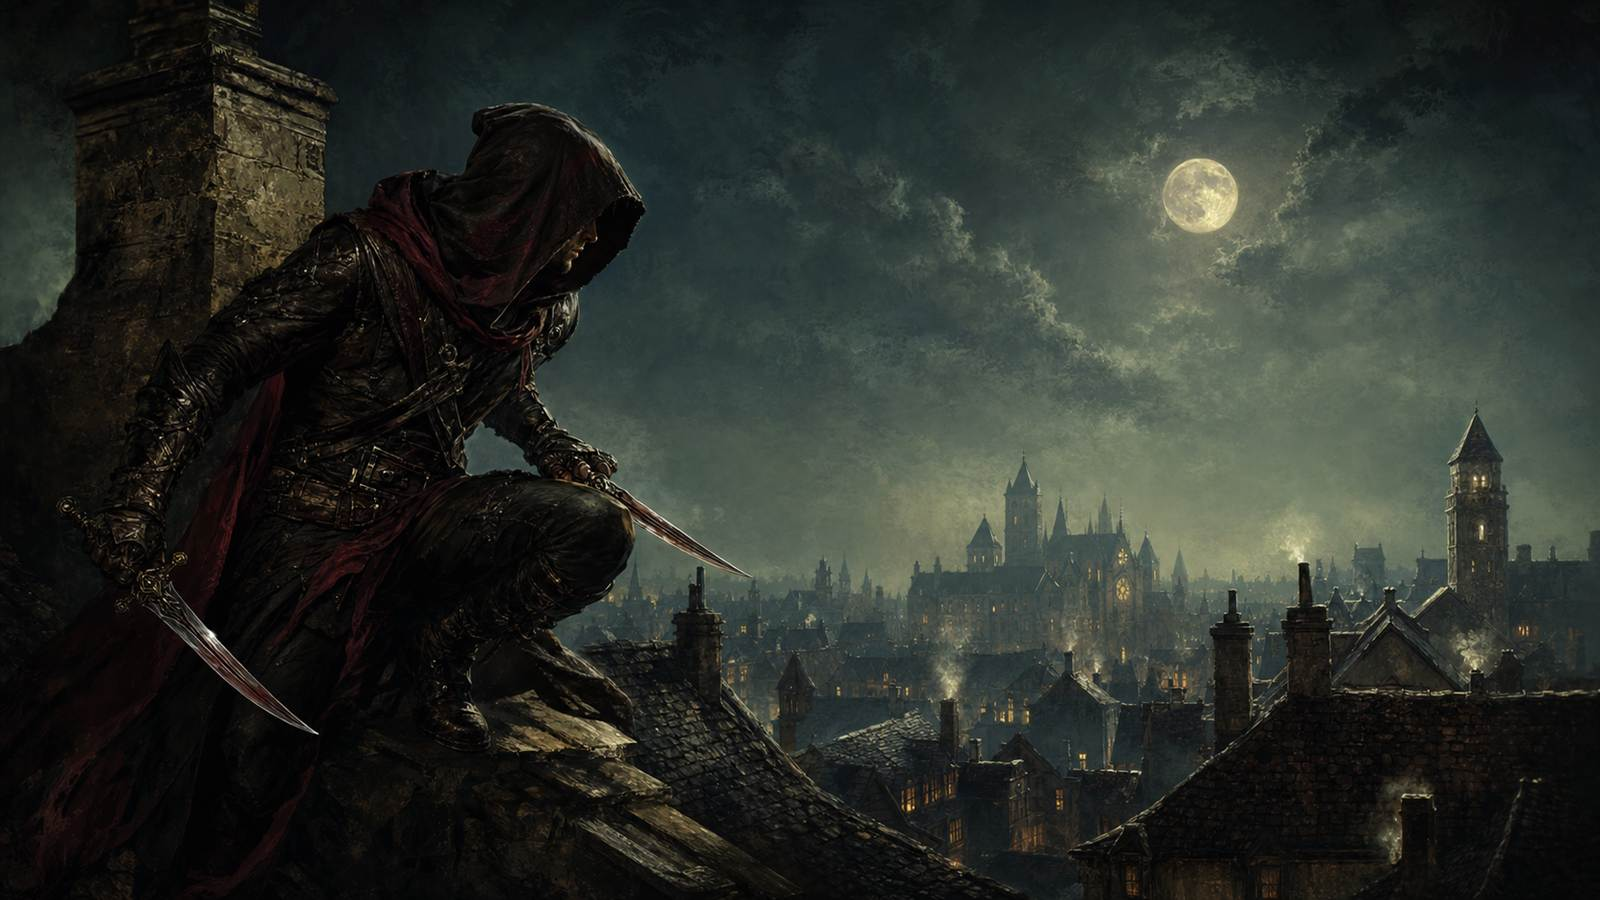
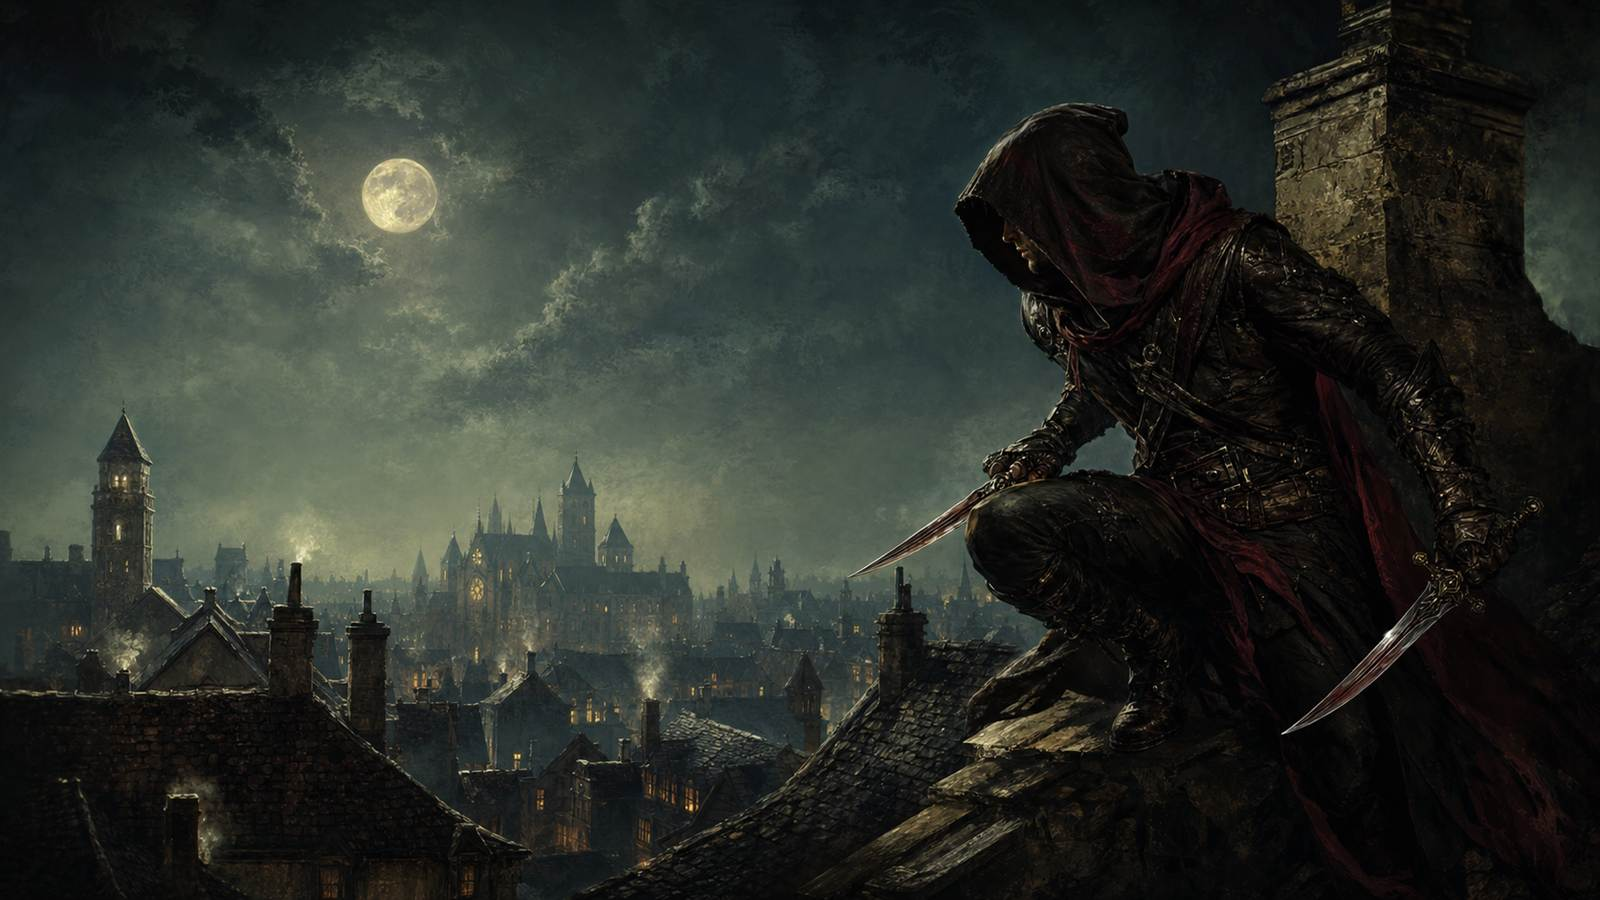
Mirror the sorcerer, paladin and slayer bands
All three put their subject on the LEFT, directly under the entry title.
Flipping horizontally moves the figure to the right and opens clean space for
the heading, matching how the rest of the class bands are composed.

Re-derived from the Box PNG source with RotateNoneFlipX applied BEFORE the
resize, so each stays a single JPEG pass instead of a re-compress of the
shipped file.

No cache-token bump: Netlify serves art/* as public,max-age=0,must-revalidate
with an ETag and the service worker is network-first, so replaced images
propagate on their own. Bumping would have forced every client to re-download
the 10MB index for a three-image change.

diff --git a/art/ART-MANIFEST.md b/art/ART-MANIFEST.md
@@ -150,6 +150,17 @@ image in Box not shipped; re-add it only if you want the cat gods back as an eas
 and the celestial/fiend/elemental/giant/chromatic/metallic subtypes — is now shipped and wired
 per Batch 3 above. `race-lizardfolk` has no *race* entry but does back the Lizardfolk **monster**.)
 
+### Mirrored 2026-08-12
+`class-sorcerer`, `class-paladin`, `class-slayer` are **horizontally mirrored** versions of their v1
+source — each originally put its subject on the LEFT, directly under the entry title. Flipping moves
+the figure right and opens clean space for the heading, matching the rest of the set.
+
+Re-derived from the Box PNG with `RotateNoneFlipX` **before** the resize, so they stay a single JPEG
+pass rather than a re-compress of the shipped file. Reproduce with `mirror-art.ps1`.
+⚠ Mirror only art with no lettering, insignia or handedness that must read correctly.
+No cache-token bump was needed: Netlify serves `art/*` as `public,max-age=0,must-revalidate` with an
+ETag and the service worker is network-first, so replaced images propagate on their own.
+
 Still with **no art of their own**: the `magical beast` and `outsider` creature types have no
 dedicated image (outsiders resolve to celestial/fiend/elemental by alignment; magical beasts fall
 back to `cat-monsters`). Worth generating if you want them covered specifically.
